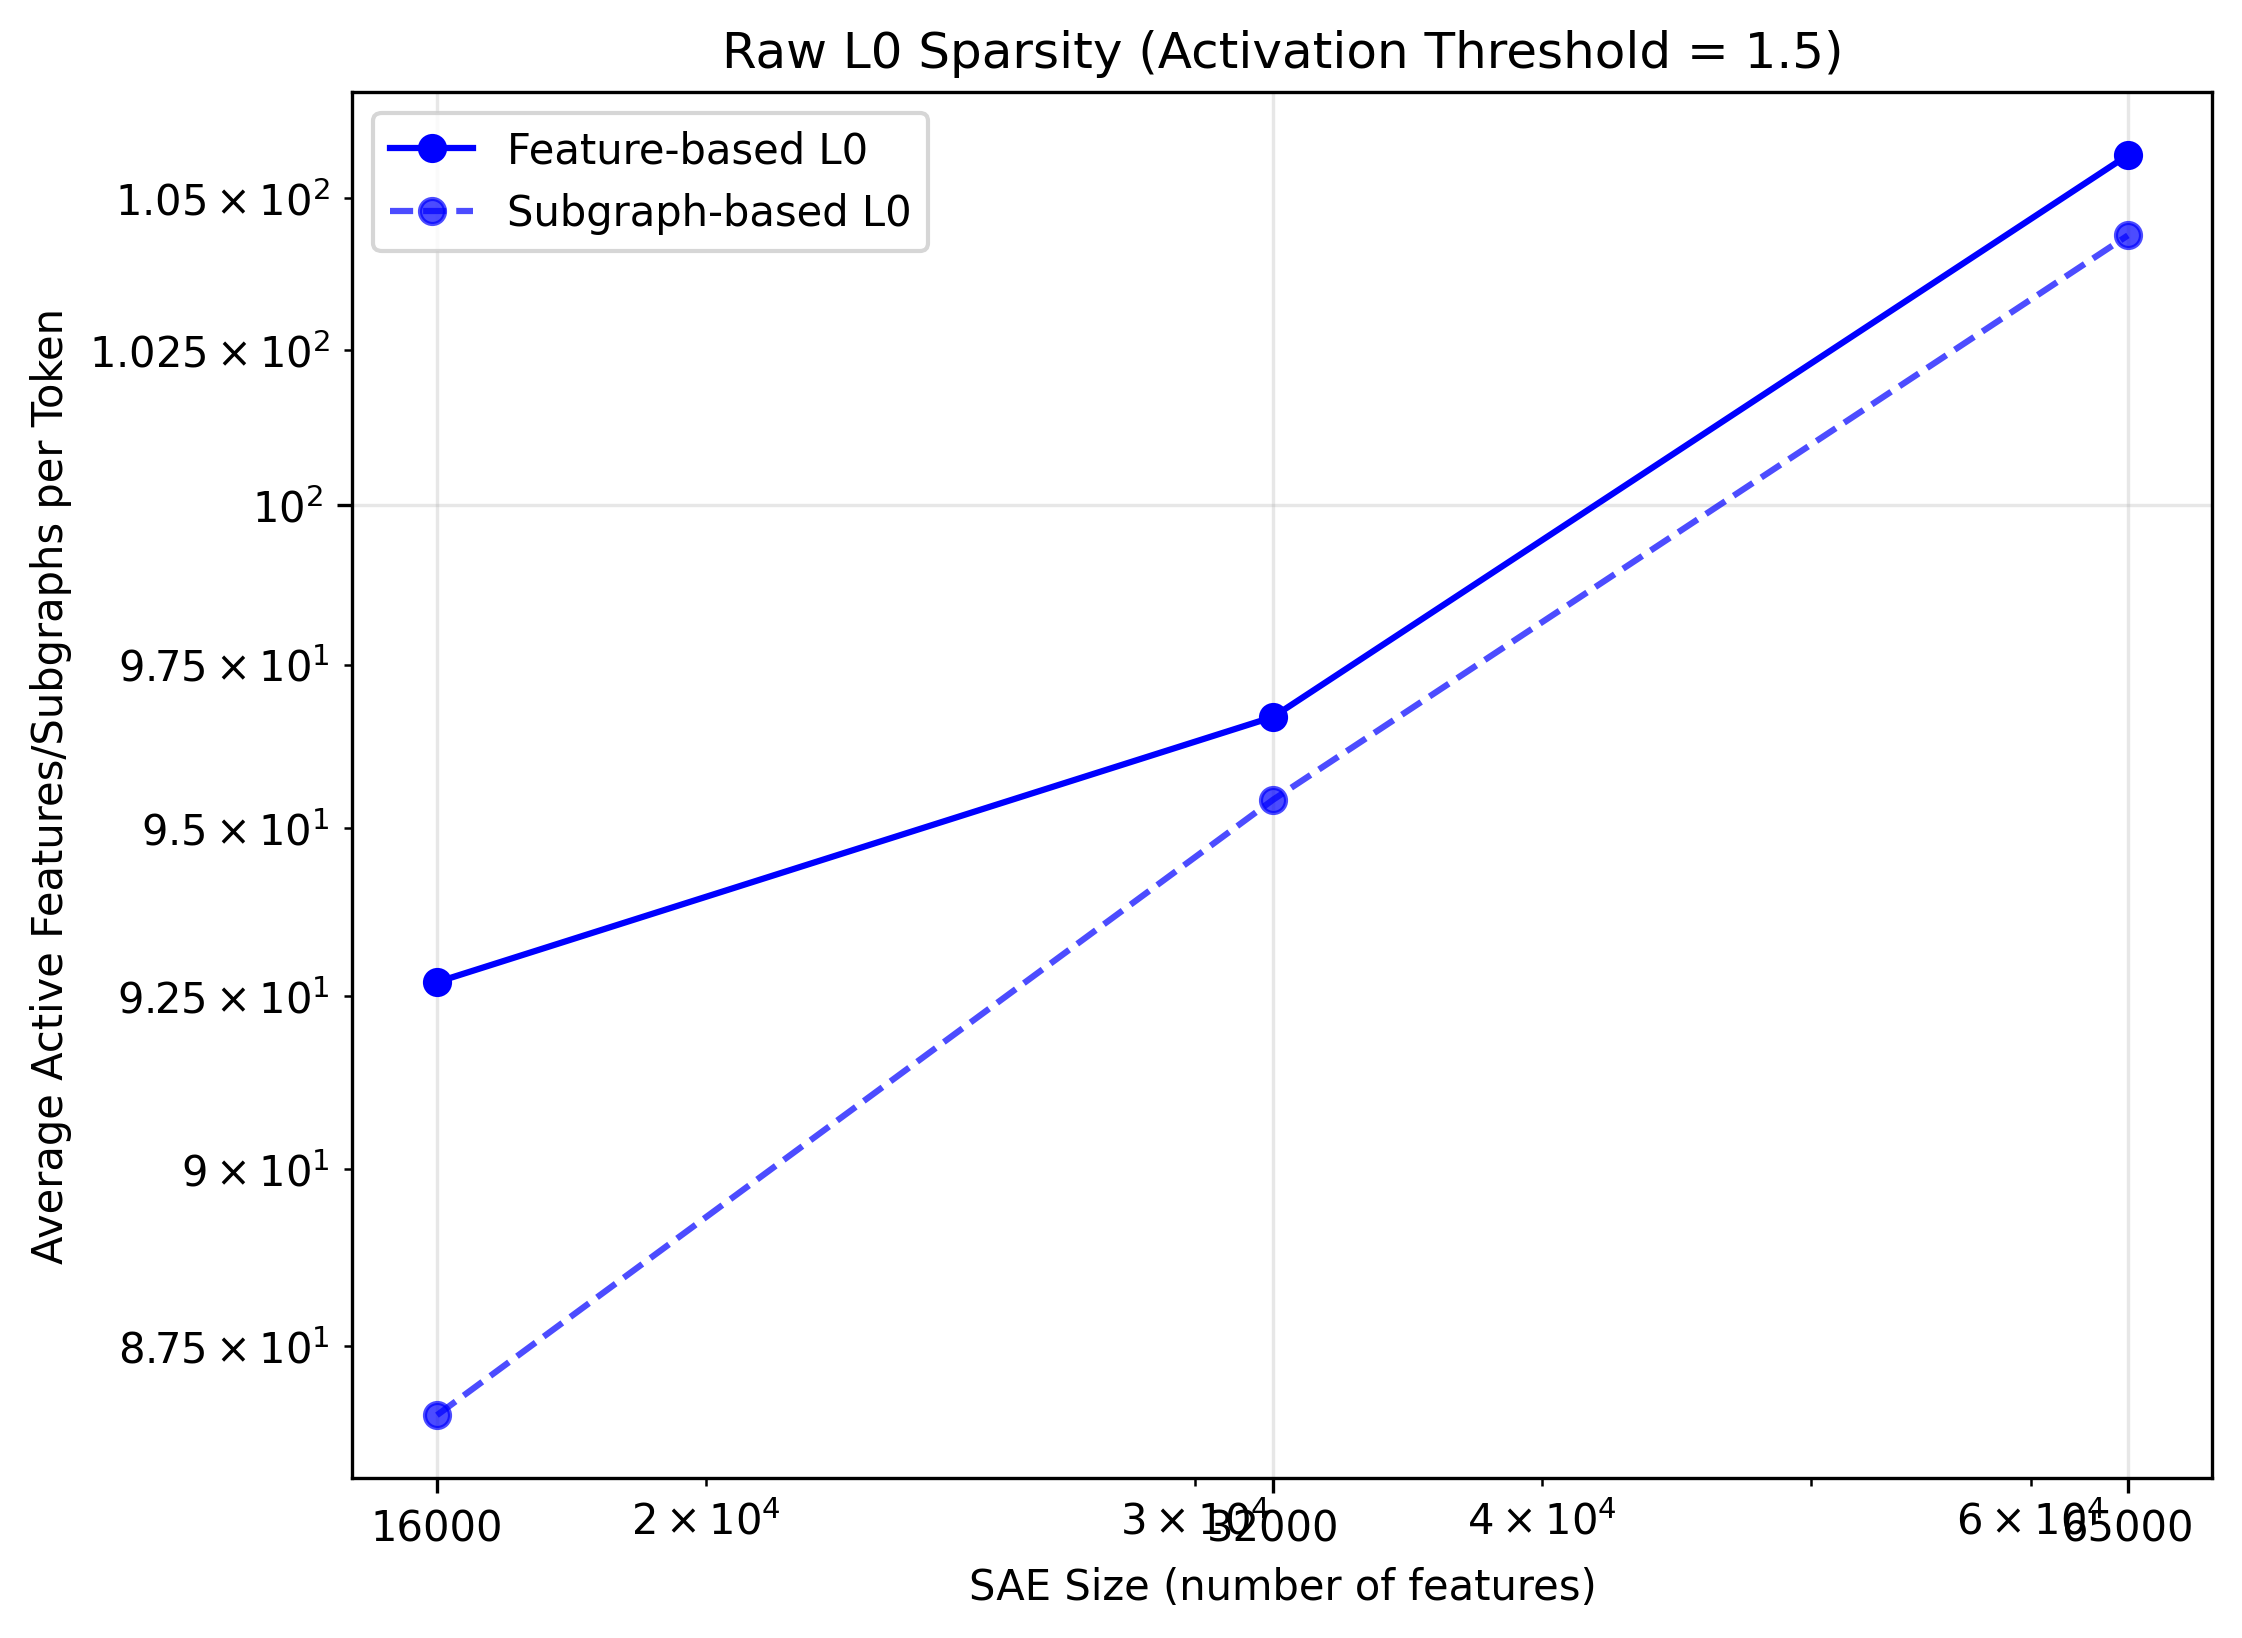
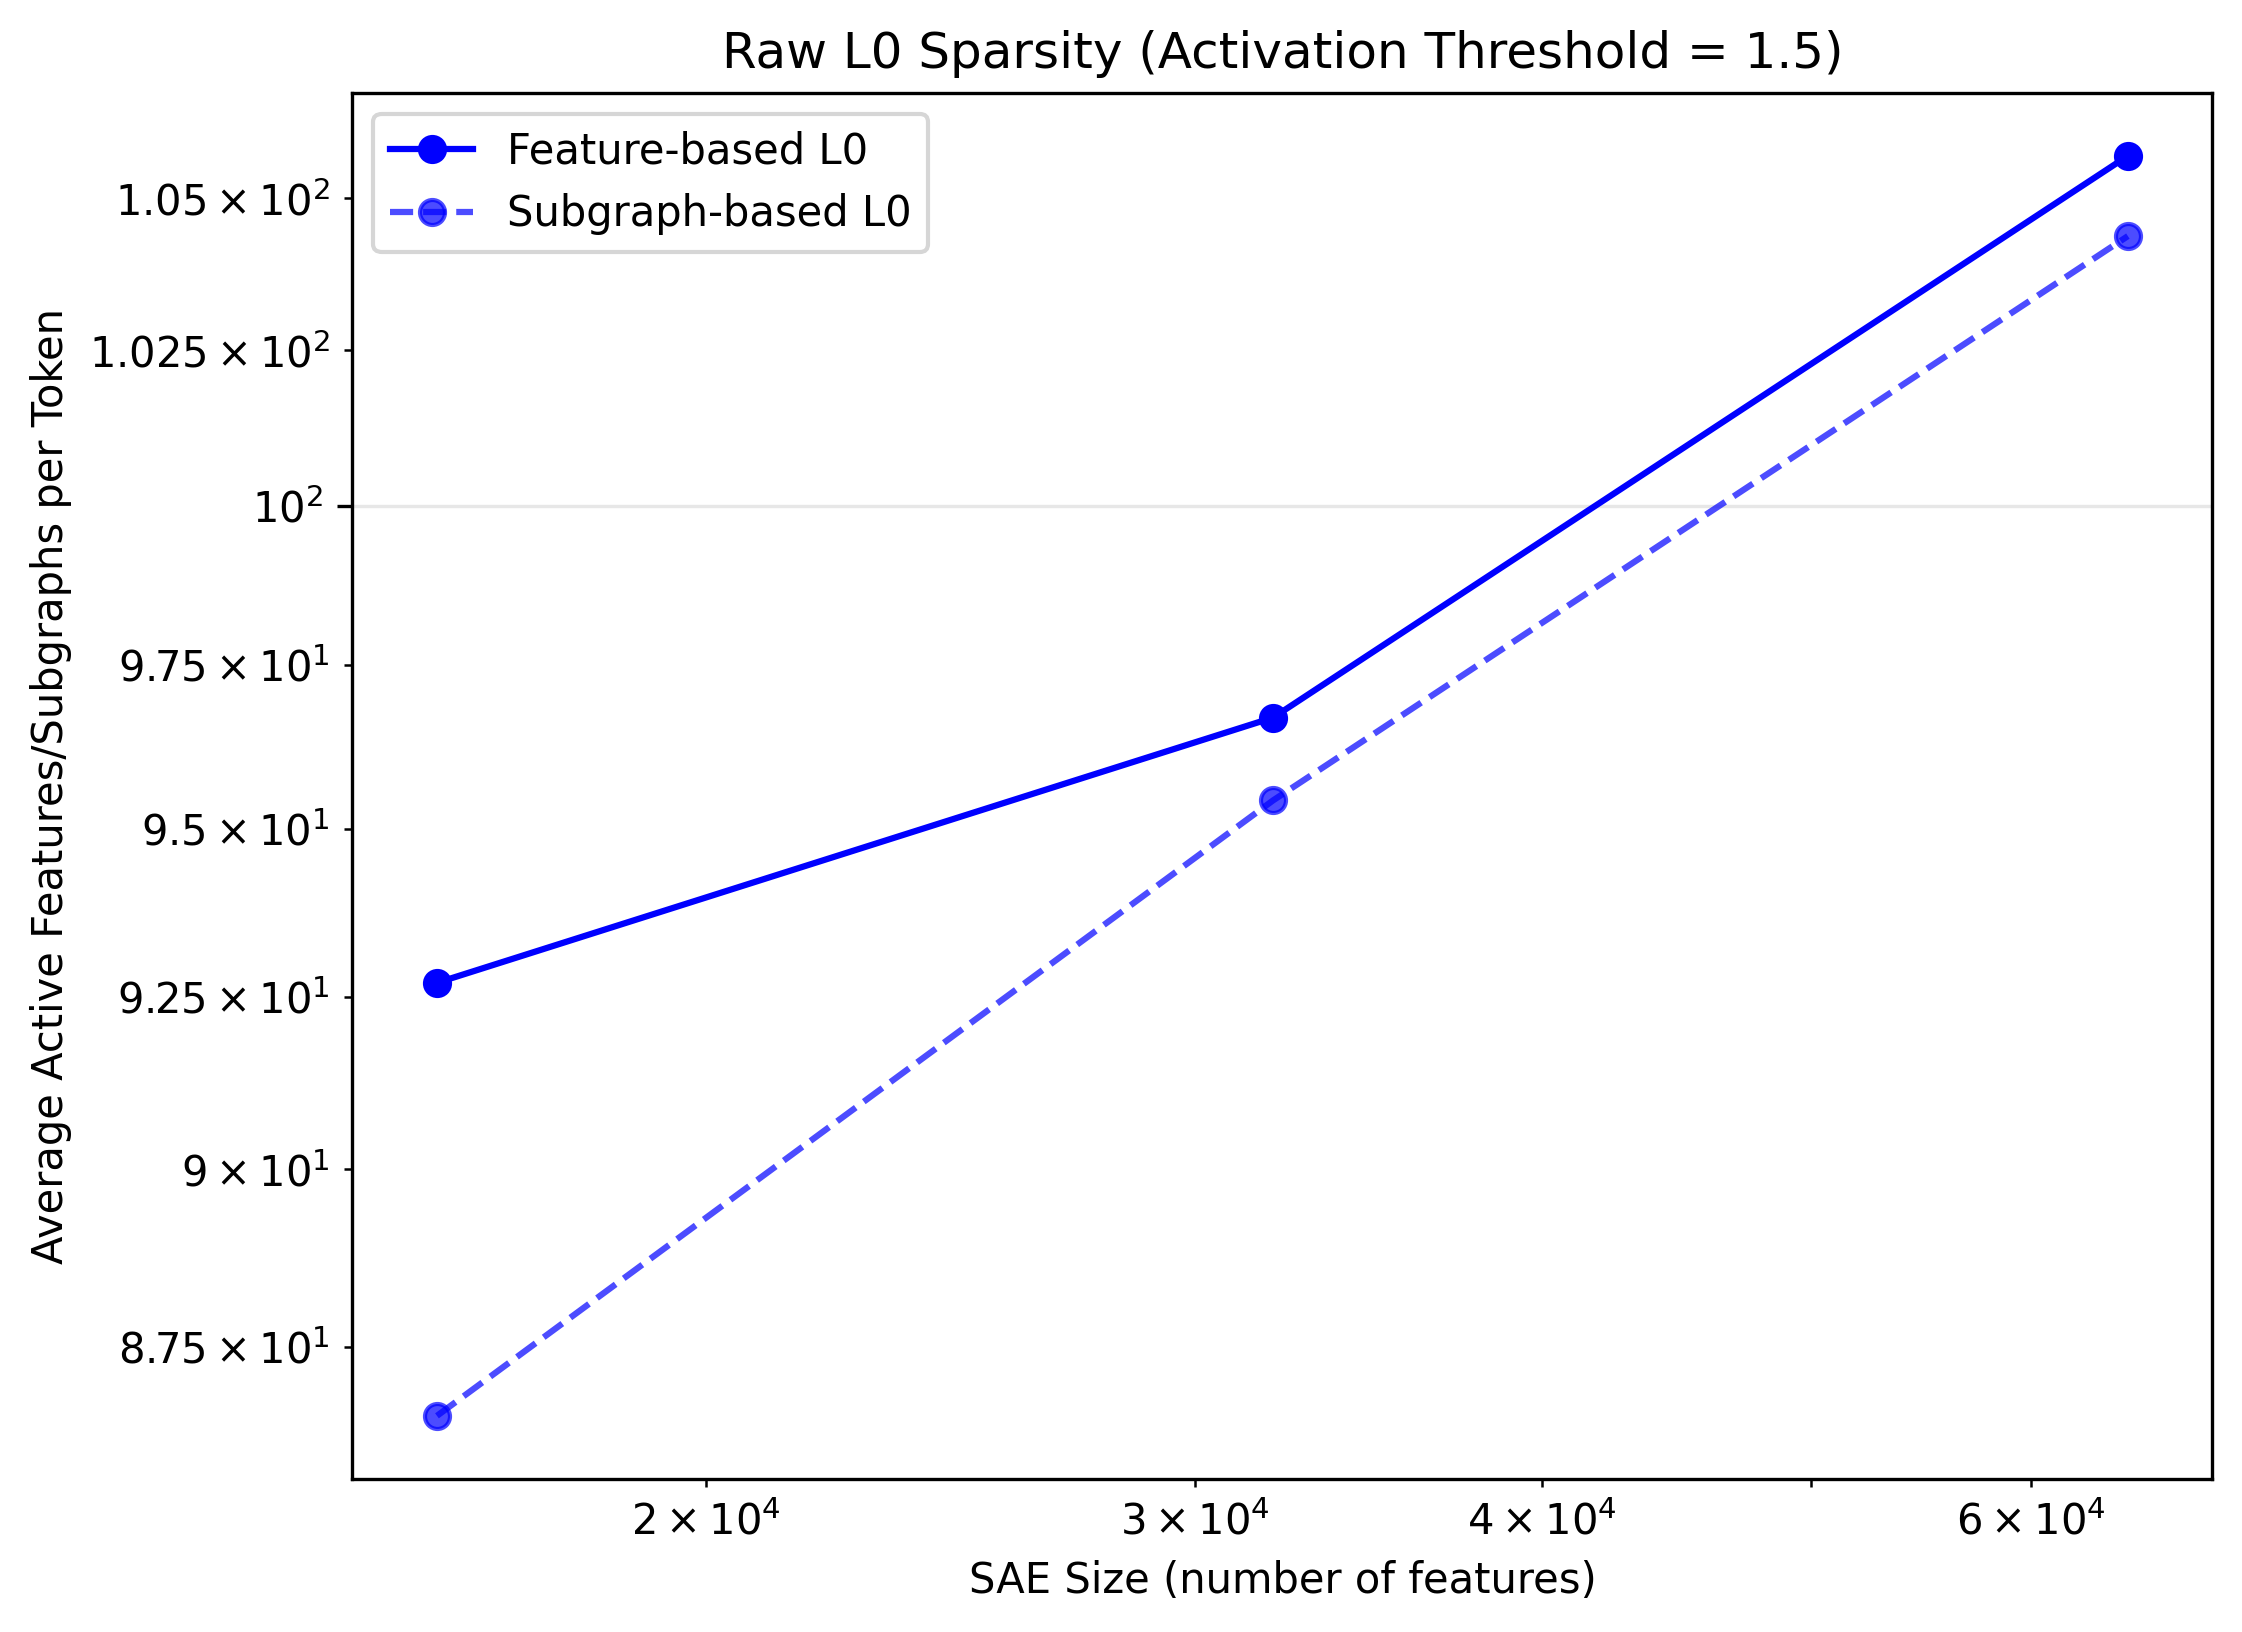
fix: remove ticks only for the plot where they overlap with default ticks
(do not understand why they seem to overwrite default except for Gemma for width)

See Issue #103

diff --git a/src/size_effects/feature_graph_l0.py b/src/size_effects/feature_graph_l0.py
@@ -250,7 +250,7 @@ def plot_l0_comparison_matplotlib(
     plt.xlabel(x_axis_label)
     plt.ylabel("Proportion of Features/Subgraphs Active")
     # Use default ticks for gemma models
-    if "gemma" not in results[0]["model_name"]:
+    if x_axis_label != width_x_axis_label or "gpt2" in results[0]["model_name"]:
         plt.xticks(x_values, x_values)  # Set specific x-tick locations and labels
     plt.title(
         f"Normalized L0 Sparsity (Activation Threshold = {activation_threshold_safe.replace('_', '.')})"
@@ -279,8 +279,8 @@ def plot_l0_comparison_matplotlib(
     plt.yscale("log")
     plt.xlabel(x_axis_label)
     plt.ylabel("Average Active Features/Subgraphs per Token")
-    # Use default ticks for gemma models
-    if "gemma" not in results[0]["model_name"]:
+    # Use default ticks for gemma models for width x-axis
+    if x_axis_label != width_x_axis_label or "gpt2" in results[0]["model_name"]:
         plt.xticks(x_values, x_values)  # Set specific x-tick locations and labels
     plt.title(
         f"Raw L0 Sparsity (Activation Threshold = {activation_threshold_safe.replace('_', '.')})"
